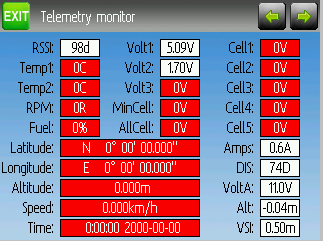
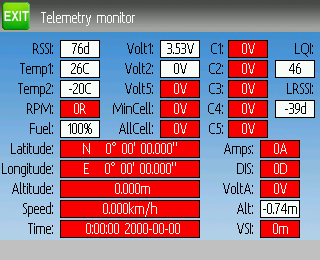
Update Frsky information.  Add LQI and LRSSI telemetry values.  Add S.Port data out trainer port.

diff --git a/source/ch_protocols.rst b/source/ch_protocols.rst
@@ -226,13 +226,13 @@ The Frsky protocol also supports enabling/disabling telemetry.  This option is a
 
 When telemetry is enabled the values sent by the receiver (RSSI, VOLT1, VOLT2) are supported.
 
-Additional Hub telemetry values are supported in common with the FrskyX protocol on transmitters except the 7e.  See the Frsky Telemetry section below.
+Additional Hub telemetry values are supported in common with the FrskyX protocol on transmitters except the 7e and f7.  See the Frsky Telemetry section below.
 
 
 
 Protocol: \*FrskyX
 ------------------
-The FryskyX protocol implements the Frsky D16 radio protocol, including s.port and hub telemetry.  |cc2500-note|
+The FryskyX protocol implements the Frsky D16 radio protocol, including S.Port and hub telemetry.  |cc2500-note|
 
 |mod-install-link|
 
@@ -240,7 +240,7 @@ This protocol supports up to 12 channels. Fixed ID binding is supported to link 
 
 The following protocol options are available.
 
-**Freq-fine**: Frequency offset adjustment. Range -127 to 127. Adjusts for variances betweeen CC2500 modules. Usually offset of 0 or -41 is required, but full range should be tested if there are problems with binding or range.  Default 0.
+**Freq-fine**: Frequency offset adjustment. Range -127 to 127. Adjusts for variances betweeen CC2500 modules. Usually offset of 0 or -41 is required, but full range should be tested if there are problems with binding or range.  Default 0. The LQI telemetry value can be used as a guide for adjusting the fine frequency protocol option.
 
 **AD2GAIN**: The VOLT2 telemetry value (AIN input on X4R) is multiplied by this value divided by 100. Allows adjustment for external resistor divider network.  Default 100 (gain of 1). Range is 1 to 2000 (gain of 0.01 to 20.00).
 
@@ -248,14 +248,16 @@ The following protocol options are available.
 
 For channels with failsafe set to off, the default Failsafe protocol option "Hold" commands the receiver to hold the last received channel values when the receiver enters failsafe mode.  The "NoPulse" setting causes the receiver to not send any signal on PPM outputs (Testing on X8R showed SBUS values went to minimum, but SBUS behavior is not specified by the protocol).  The "RX" setting prevents Deviation from sending failsafe settings so the receiver will use whatever failsafe values have been stored in the receiver.
 
-Supports receiver telemetry (RSSI, VOLT1) on all transmitters.  Also supports s.port and hub telemetry sensors as well as GPS on transmitters except the 7e as described in the next section.
+Supports receiver telemetry (RSSI, VOLT1) on all transmitters.  Also supports S.Port and hub telemetry sensors as well as GPS on transmitters (except on 7e and f7) as described in the next section.
+
+When S.Port telemetry is being received and PPMIn is not used, the S.Port packets are sent out the trainer port.  The bit rate is 57600 for compatibility with S.Port decoders, but the signal must be inverted to connect to a standard decoder.  It can be connected directly to the input of a 3.3V ftdi adapter.
 
 
 *Frsky and FrskyX Extended Telemetry*
 --------------------------------------
-Extended telemetry refers to the hub and s.port Frsky telemetry sensors.  These sensors are supported in all transmitters except the 7e.  They are available on the telemetry test pages and main page boxes.
+Extended telemetry refers to the hub and S.Port Frsky telemetry sensors.  These sensors are supported in all transmitters except the 7e.  They are available on the telemetry test pages and main page boxes.
 
-The FrskyX s.port telemetry provides for connecting up to 16 sensors of the same type (e.g. battery voltage).  Deviation supports multiple sensors of the same type, but only one telemetry value is saved.  The value most recently received from all the sensors of the same type is reported.
+The FrskyX S.Port telemetry provides for connecting up to 16 sensors of the same type (e.g. battery voltage).  Deviation supports multiple sensors of the same type, but only one telemetry value is saved.  The value most recently received from all the sensors of the same type is reported.
 
 *Telemetry test page*
 
@@ -264,11 +266,17 @@ The FrskyX s.port telemetry provides for connecting up to 16 sensors of the same
 .. image:: images/devo8/ch_protocols/frsky_telem.png
    :width: 80%
 
+The CELL voltages are labeled C1-C5.
+
 .. elseif:: devo10
+
+The following tables show the layout of the telemetry test page display.
 
 .. cssclass:: telemtable
 
 ======== ======= =========
+      Devo10
+--------------------------
 Misc     Bat     Cells
 ======== ======= =========
 RSSI     VOLT1   CELL1
@@ -278,11 +286,26 @@ RPM      MINCELL CELL4
 FUEL     ALLCELL CELL5
 ALTITUDE VOLTA   CELL6
 VARIO    CURRENT DISCHARGE
+LQI      LRSSI
+======== ======= =========
+
+
+.. cssclass:: telemtable
+
+======== ======= =========
+       Devo7e
+--------------------------
+Misc     Bat     Signl
+======== ======= =========
+RSSI     VOLT1   LQI
+\        VOLT2   LRSSI
 ======== ======= =========
 
 .. endif::
 
 The ALTITUDE value is reported as Above Ground Level.  The ground level is set to the first altitude telemetry value received.
+
+The LQI (Link Quality Indicator) and LRSSI (Local RSSI) indicate the quality and signal strength of the telemetry signal from the receiver.  The LQI can be used as a guide for adjusting the fine frequency protocol option.  Lower LQI is better and values under 50 are typical.  The LRSSI units is (approximately) dBm.
 
 Derived values: MINCELL is the lowest reported CELL value.  ALLCELL is the total of all reported CELL values.  Discharge is total battery discharge amount in milliAmp-hours.
 
